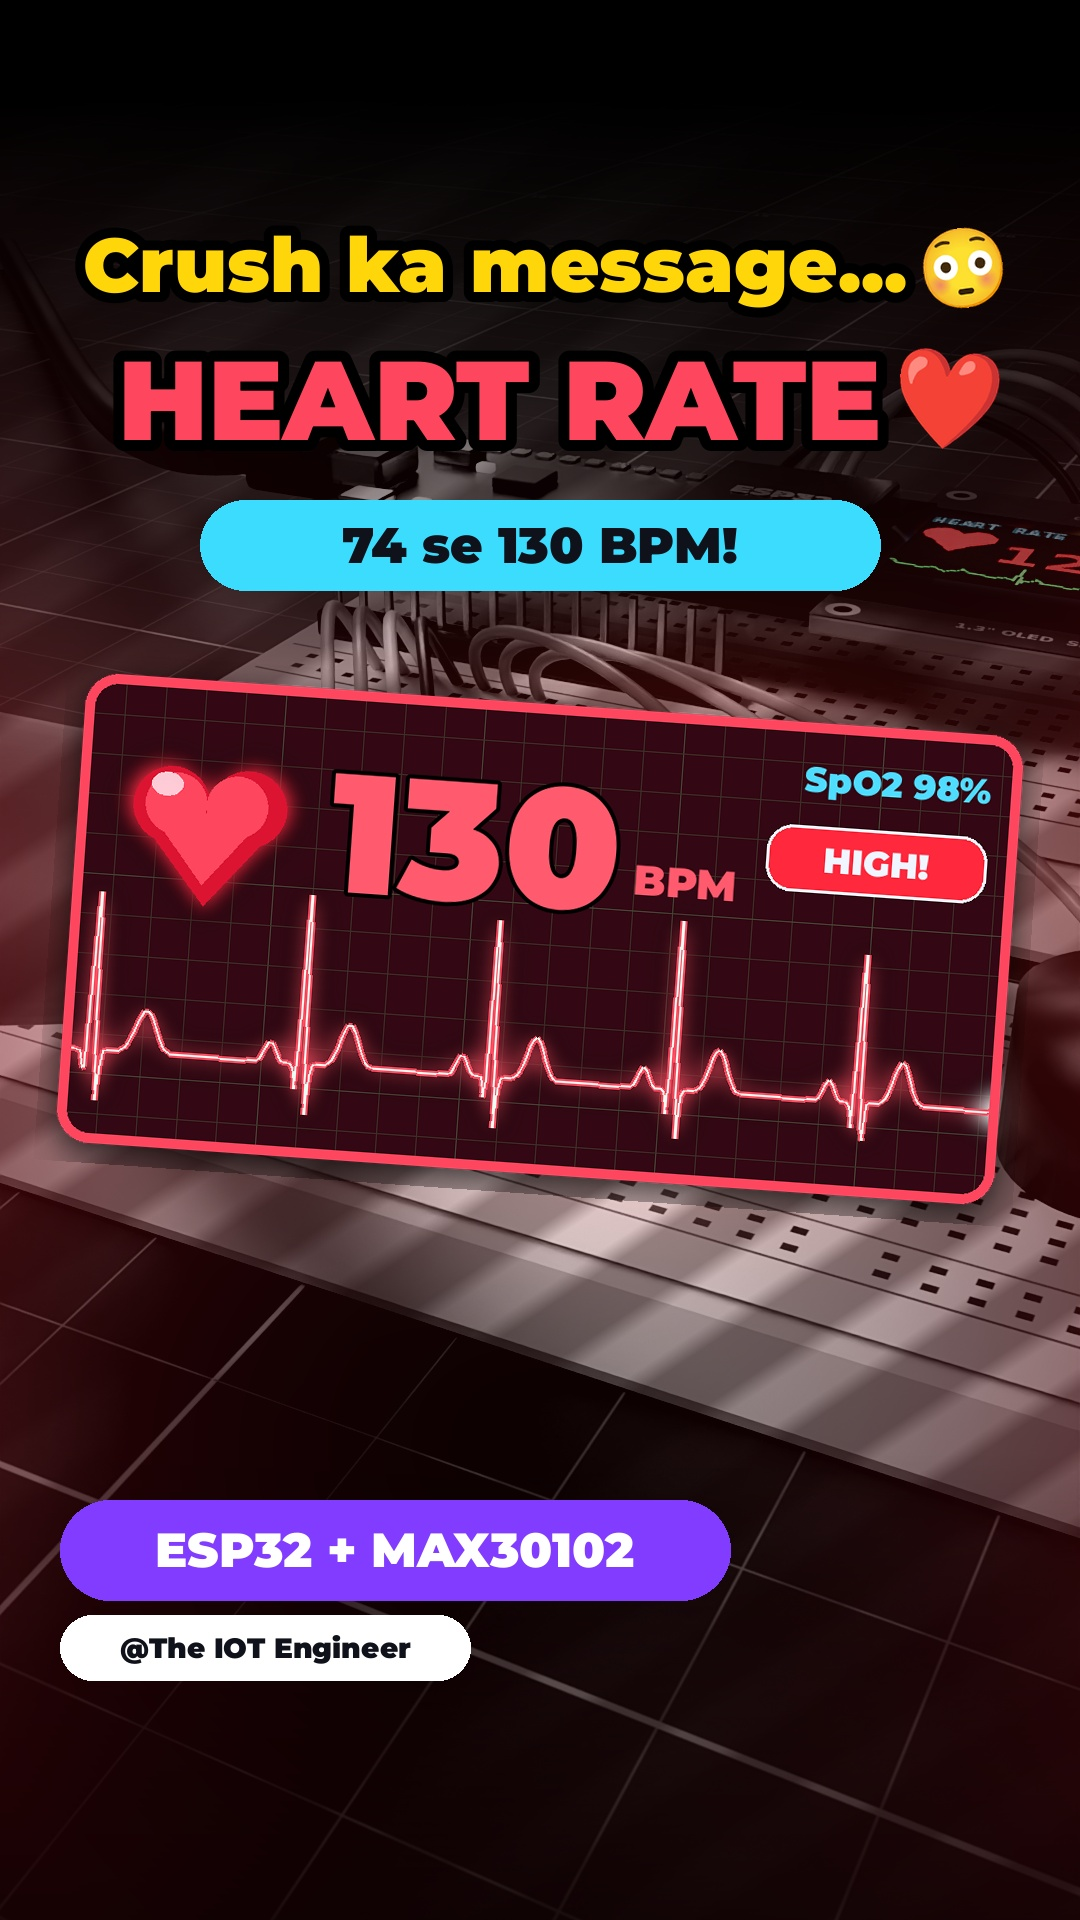
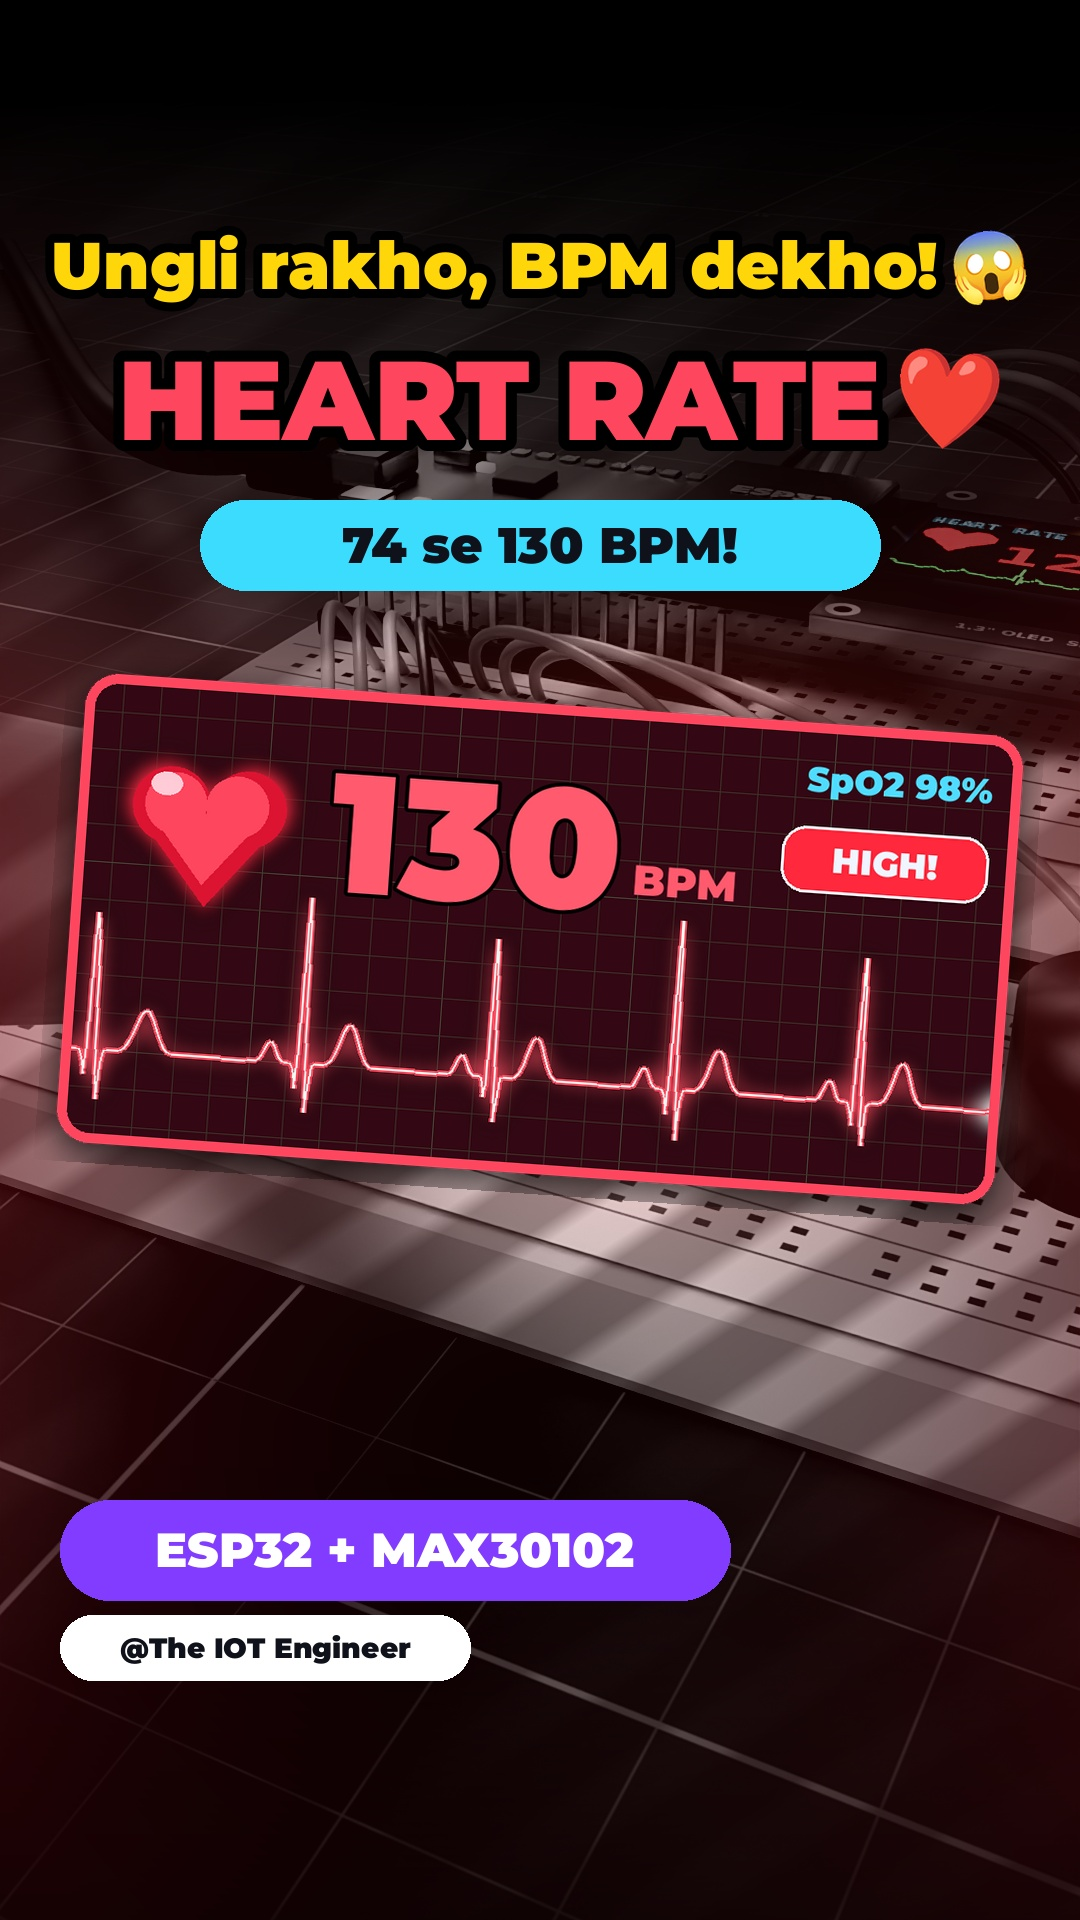
edit32: thumbnails without the crush line; crisp monitor card at every size
Claude-Session: https://claude.ai/code/session_01CESTBAn4oodXJcbmRSTh5m

diff --git a/edit32/thumbnail/make_thumbnail.py b/edit32/thumbnail/make_thumbnail.py
@@ -35,7 +35,7 @@ def text(d, xy, s, size, fill, stroke=10, anchor="mm"):
 
 def card(w, ang=-4):
     h = w // 2
-    g = b32.hrgfx.draw_hd(HI_F - HI_F % 8, w, h).convert("RGBA")
+    g = b32.hrgfx.draw_hd(HI_F - HI_F % 8, 1000, 500).resize((w, h), Image.LANCZOS).convert("RGBA")
     m = Image.new("L", (w, h), 0)
     ImageDraw.Draw(m).rounded_rectangle((0, 0, w - 1, h - 1), w // 28, fill=255)
     c = Image.new("RGBA", (w + 40, h + 40))
@@ -56,8 +56,8 @@ c.alpha_composite(Image.merge("RGBA", (*[Image.new("L", (W, H), 0)] * 3, g.resiz
 cd = card(940)
 c.alpha_composite(cd, ((W - cd.width) // 2, 650))
 d = ImageDraw.Draw(c)
-text(d, (W // 2 - 45, 265), "Crush ka message...", 76, YEL, 10)
-c.alpha_composite(emoji("😳", 80, 8), (W // 2 - 45 + int(d.textlength("Crush ka message...", font=F(76)) / 2) + 10, 222))
+text(d, (W // 2 - 45, 265), "Ungli rakho, BPM dekho!", 66, YEL, 9)
+c.alpha_composite(emoji("😱", 72, 8), (W // 2 - 45 + int(d.textlength("Ungli rakho, BPM dekho!", font=F(66)) / 2) + 10, 226))
 d = ImageDraw.Draw(c)
 text(d, (W // 2 - 40, 400), "HEART RATE", 112, RED, 11)
 c.alpha_composite(emoji("❤", 100, -6), (W // 2 - 40 + int(d.textlength("HEART RATE", font=F(112)) / 2) + 12, 345))
@@ -77,8 +77,8 @@ c.alpha_composite(Image.merge("RGBA", (*[Image.new("L", (W, H), 0)] * 3, sh.resi
 cd = card(560, -5)
 c.alpha_composite(cd, (W - cd.width + 10, 250))
 d = ImageDraw.Draw(c)
-text(d, (40, 90), "Crush ka message...", 64, YEL, 9, anchor="lm")
-c.alpha_composite(emoji("😳", 66, 8), (40 + int(d.textlength("Crush ka message...", font=F(64))) + 12, 56))
+text(d, (40, 90), "Ungli rakho, BPM dekho!", 56, YEL, 8, anchor="lm")
+c.alpha_composite(emoji("😱", 60, 8), (40 + int(d.textlength("Ungli rakho, BPM dekho!", font=F(56))) + 12, 60))
 d = ImageDraw.Draw(c)
 text(d, (40, 205), "HEART RATE", 96, RED, 9, anchor="lm")
 c.alpha_composite(emoji("❤", 84, -6), (40 + int(d.textlength("HEART RATE", font=F(96))) + 14, 160))
